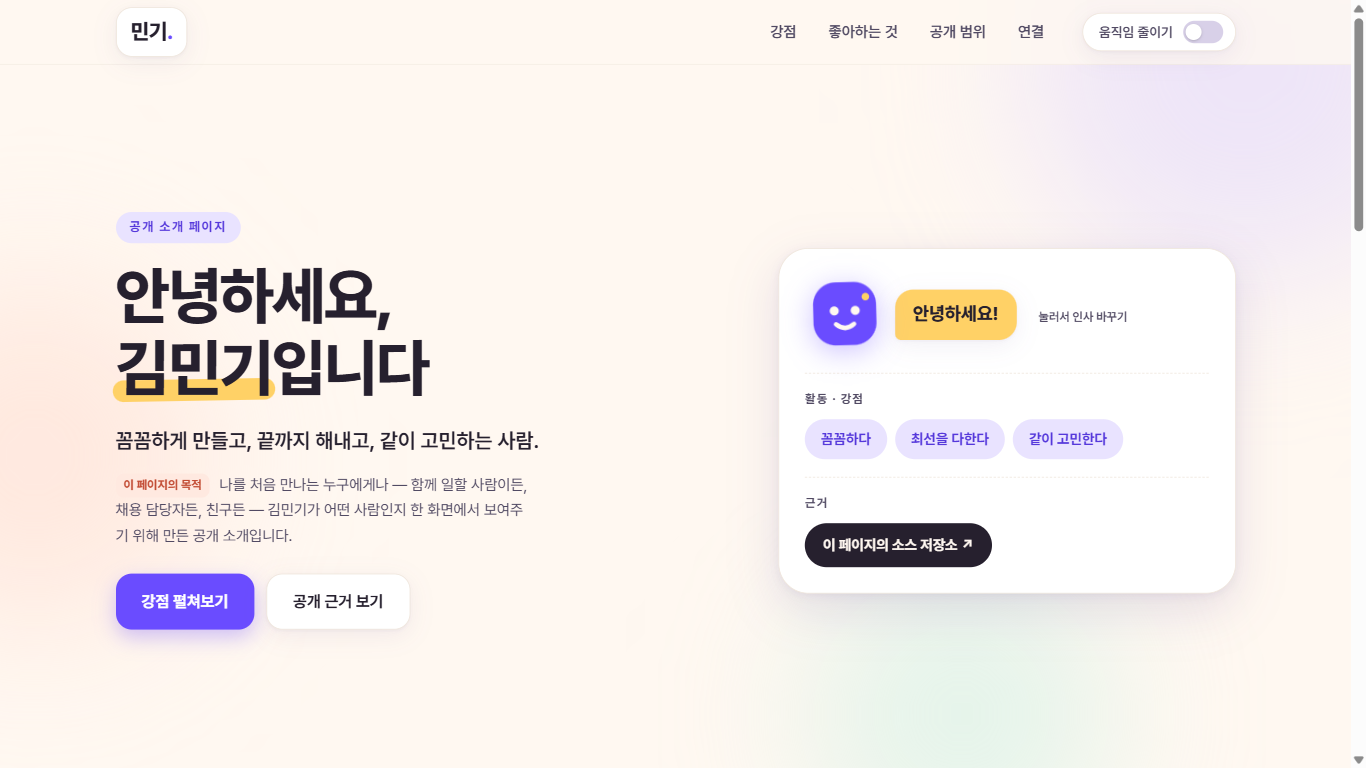
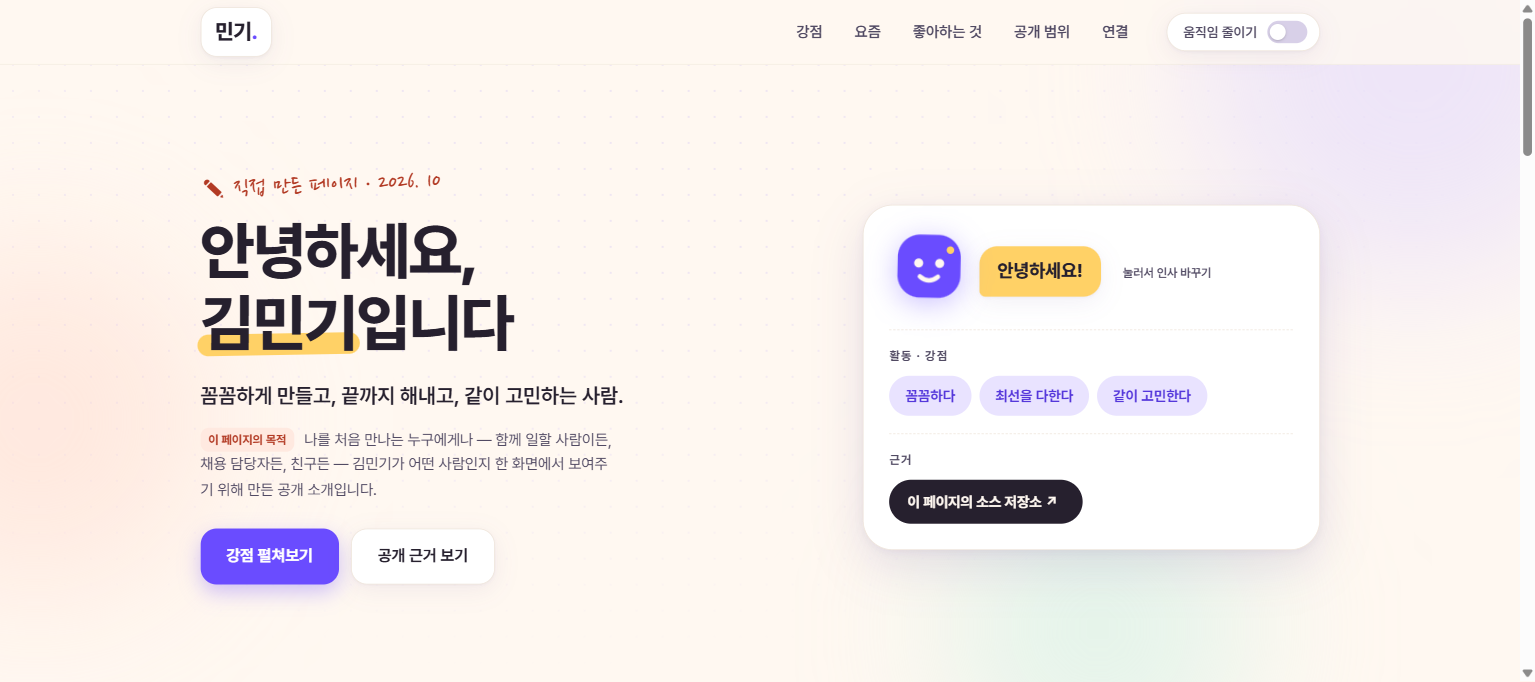
손글씨 감성 디자인 보강: 손글씨 도장, 띠배너, 요즘의 나 섹션, 버디 파티클

diff --git a/index.html b/index.html
@@ -7,6 +7,7 @@
   <title>김민기 — 나를 소개하는 한 페이지</title>
   <link rel="icon" href="assets/favicon.svg" type="image/svg+xml">
   <link rel="stylesheet" href="https://cdn.jsdelivr.net/gh/orioncactus/pretendard@v1.3.9/dist/web/variable/pretendardvariable-dynamic-subset.min.css">
+  <link rel="stylesheet" href="https://fonts.googleapis.com/css2?family=Nanum+Pen+Script&display=swap">
   <link rel="stylesheet" href="styles.css">
 </head>
 <body>
@@ -23,6 +24,7 @@
       <a class="logo" href="#top" aria-label="페이지 맨 위로">민기<span aria-hidden="true">.</span></a>
       <nav class="site-nav" aria-label="페이지 목차">
         <a href="#strengths">강점</a>
+        <a href="#now">요즘</a>
         <a href="#likes">좋아하는 것</a>
         <a href="#scope">공개 범위</a>
         <a href="#links">연결</a>
@@ -37,7 +39,7 @@
   <main id="main" tabindex="-1">
     <section id="top" class="hero container" aria-labelledby="hero-title">
       <div class="hero-copy">
-        <p class="eyebrow">공개 소개 페이지</p>
+        <p class="hand-note">✎ 직접 만든 페이지 · 2026. 10</p>
         <h1 id="hero-title">안녕하세요,<br><span class="hl">김민기</span>입니다</h1>
         <p class="lead">꼼꼼하게 만들고, 끝까지 해내고, 같이 고민하는 사람.</p>
         <p class="purpose"><span class="purpose-tag">이 페이지의 목적</span> 나를 처음 만나는 누구에게나 — 함께 일할 사람이든, 채용 담당자든, 친구든 — 김민기가 어떤 사람인지 한 화면에서 보여주기 위해 만든 공개 소개입니다.</p>
@@ -77,6 +79,13 @@
         </div>
       </div>
     </section>
+
+    <div class="marquee" aria-hidden="true">
+      <div class="marquee-track">
+        <span>꼼꼼하게 만들기</span><span class="mq-star">✦</span><span>끝까지 해내기</span><span class="mq-star">✦</span><span>같이 고민하기</span><span class="mq-star">✦</span><span>만나서 반가워요</span><span class="mq-star">✦</span>
+        <span>꼼꼼하게 만들기</span><span class="mq-star">✦</span><span>끝까지 해내기</span><span class="mq-star">✦</span><span>같이 고민하기</span><span class="mq-star">✦</span><span>만나서 반가워요</span><span class="mq-star">✦</span>
+      </div>
+    </div>
 
     <section id="strengths" class="section container" aria-labelledby="strengths-title">
       <div class="section-head">
@@ -166,6 +175,45 @@
       </div>
     </section>
 
+    <section id="now" class="section container" aria-labelledby="now-title">
+      <div class="section-head">
+        <p class="eyebrow">지금 이 순간</p>
+        <h2 id="now-title">요즘의 나</h2>
+      </div>
+      <!-- TODO(학생): 실제 내 요즘 상태로 문장을 바꾸면 더 좋습니다 -->
+      <div class="now-grid">
+        <div class="now-card now-lavender">
+          <p class="now-label">집중 중</p>
+          <p>과제와 작은 웹 페이지 만들기 — 직접 눌러 보고 고치는 시간이 제일 재밌습니다.</p>
+        </div>
+        <div class="now-card now-mint">
+          <p class="now-label">배우는 중</p>
+          <p>GitHub에 코드를 올리고 Pages로 공개하는 흐름을 이번에 처음 끝까지 해봤습니다.</p>
+        </div>
+        <div class="now-card now-butter">
+          <p class="now-label">좋아하는 순간</p>
+          <p>콘솔에 빨간 오류가 하나도 없을 때. 그 순간이 제일 뿌듯합니다.</p>
+        </div>
+      </div>
+      <ol class="timeline" aria-label="걸어온 길">
+        <li>
+          <span class="tl-dot" aria-hidden="true"></span>
+          <p class="tl-when">처음</p>
+          <p class="tl-what">웹 페이지를 처음 만들어 보며 HTML·CSS·JS를 익혔습니다.</p>
+        </li>
+        <li>
+          <span class="tl-dot" aria-hidden="true"></span>
+          <p class="tl-when">그다음</p>
+          <p class="tl-what">Firebase로 로그인과 데이터 저장을 붙여 배포 주소까지 만들었습니다.</p>
+        </li>
+        <li>
+          <span class="tl-dot" aria-hidden="true"></span>
+          <p class="tl-when">지금</p>
+          <p class="tl-what">공개 범위를 직접 정해 만든 이 한 페이지를 공개했습니다.</p>
+        </li>
+      </ol>
+    </section>
+
     <section id="likes" class="section container" aria-labelledby="likes-title">
       <div class="section-head">
         <p class="eyebrow">취향</p>
@@ -239,6 +287,7 @@
   <footer class="site-footer">
     <div class="container footer-inner">
       <p>© <span id="year">2026</span> 김민기 — 내가 공개 범위를 정해 직접 만든 한 페이지입니다.</p>
+      <p class="hand-note footer-hand">읽어줘서 고마워요!</p>
       <a href="#top">맨 위로 ↑</a>
     </div>
   </footer>

diff --git a/styles.css b/styles.css
@@ -94,6 +94,17 @@ body {
 .blob-coral  { width: 340px; height: 340px; background: #FFD9CC; top: 38%; left: -140px; animation-delay: -5s; }
 .blob-mint   { width: 300px; height: 300px; background: #C9F0E4; bottom: -100px; right: 18%; animation-delay: -9s; }
 
+/* 노트 점선 배경 */
+.bg-blobs::after {
+  content: "";
+  position: absolute;
+  inset: 0;
+  background-image: radial-gradient(circle, rgba(106, 76, 255, .10) 1.2px, transparent 1.3px);
+  background-size: 26px 26px;
+  -webkit-mask-image: radial-gradient(ellipse at 35% 25%, #000 20%, transparent 70%);
+  mask-image: radial-gradient(ellipse at 35% 25%, #000 20%, transparent 70%);
+}
+
 @keyframes float {
   0%, 100% { transform: translate(0, 0) scale(1); }
   50% { transform: translate(24px, -30px) scale(1.06); }
@@ -204,11 +215,25 @@ body {
   font-weight: 700;
   letter-spacing: .12em;
   color: var(--violet-deep);
-  background: var(--lavender);
-  border-radius: 999px;
+  background: rgba(233, 227, 255, .85);
+  border-radius: 4px 14px 4px 14px;
   padding: 5px 14px;
   margin-bottom: 18px;
+  transform: rotate(-1.5deg);
+  box-shadow: 0 2px 6px rgba(106, 76, 255, .10);
 }
+
+/* 손글씨 포인트 */
+.hand-note {
+  font-family: 'Nanum Pen Script', 'Malgun Gothic', cursive;
+  font-size: 1.6rem;
+  line-height: 1.2;
+  color: var(--coral-deep);
+  display: inline-block;
+  transform: rotate(-2deg);
+  margin-bottom: 14px;
+}
+.footer-hand { margin-bottom: 0; }
 
 h1 {
   font-size: clamp(2.3rem, 5.2vw, 3.9rem);
@@ -390,6 +415,111 @@ h1 {
   transition: transform .15s ease, background .15s ease;
 }
 .evidence-chip:hover { background: #3A3347; transform: translateY(-2px); }
+
+/* ----- 띠배너 ----- */
+.marquee {
+  overflow: hidden;
+  background: var(--violet);
+  padding: 13px 0;
+  transform: rotate(-.6deg) scale(1.01);
+  margin: 10px 0 -6px;
+}
+.marquee-track {
+  display: flex;
+  align-items: center;
+  gap: 30px;
+  width: max-content;
+  color: #fff;
+  font-weight: 800;
+  font-size: 1.05rem;
+  white-space: nowrap;
+  animation: marquee 24s linear infinite;
+}
+.mq-star { color: var(--butter); font-size: .85rem; }
+@keyframes marquee {
+  to { transform: translateX(-50%); }
+}
+
+/* ----- 요즘의 나 ----- */
+.now-grid {
+  display: grid;
+  grid-template-columns: repeat(3, 1fr);
+  gap: 16px;
+  margin-bottom: 34px;
+}
+.now-card {
+  border-radius: var(--radius);
+  padding: 24px;
+  border: 1px solid rgba(38, 32, 46, .06);
+  box-shadow: var(--shadow);
+  font-size: .93rem;
+}
+.now-card:nth-child(1) { transform: rotate(-.7deg); }
+.now-card:nth-child(2) { transform: rotate(.5deg); }
+.now-card:nth-child(3) { transform: rotate(-.4deg); }
+.now-card:hover { transform: translateY(-3px) rotate(0); transition: transform .16s ease; }
+.now-lavender { background: #F2EEFF; }
+.now-mint { background: #E9F8F2; }
+.now-butter { background: #FFF3D9; }
+.now-label {
+  font-weight: 800;
+  font-size: .78rem;
+  letter-spacing: .1em;
+  margin-bottom: 8px;
+}
+.now-lavender .now-label { color: var(--violet-deep); }
+.now-mint .now-label { color: var(--mint-deep); }
+.now-butter .now-label { color: #8A5A00; }
+
+/* ----- 걸어온 길 타임라인 ----- */
+.timeline {
+  list-style: none;
+  position: relative;
+  padding-left: 30px;
+  display: flex;
+  flex-direction: column;
+  gap: 18px;
+}
+.timeline::before {
+  content: "";
+  position: absolute;
+  left: 7px;
+  top: 10px;
+  bottom: 10px;
+  width: 2px;
+  background: repeating-linear-gradient(to bottom, #B9ACFF 0 7px, transparent 7px 14px);
+}
+.timeline li { position: relative; }
+.tl-dot {
+  position: absolute;
+  left: -30px;
+  top: 4px;
+  width: 16px;
+  height: 16px;
+  border-radius: 50%;
+  background: var(--butter);
+  border: 3px solid var(--violet);
+}
+.tl-when {
+  font-weight: 800;
+  color: var(--violet-deep);
+  font-size: .85rem;
+  margin-bottom: 2px;
+}
+.tl-what { font-size: .95rem; color: var(--ink); }
+
+/* ----- 버디 파티클 ----- */
+.buddy { position: relative; }
+.particle {
+  position: absolute;
+  pointer-events: none;
+  font-size: 1.15rem;
+  animation: floatUp .9s ease-out forwards;
+}
+@keyframes floatUp {
+  from { opacity: 1; transform: translateY(0) scale(.7) rotate(0); }
+  to { opacity: 0; transform: translateY(-48px) scale(1.25) rotate(18deg); }
+}
 
 /* ----- 섹션 공통 ----- */
 .section { padding: 72px 0 8px; }
@@ -675,6 +805,7 @@ html.reduce-motion .reveal { opacity: 1; transform: none; }
   .hero-panel { transform: none; }
   .sar { grid-template-columns: 1fr; }
   .link-grid { grid-template-columns: 1fr; }
+  .now-grid { grid-template-columns: 1fr; }
 }
 
 @media (max-width: 640px) {

diff --git a/script.js b/script.js
@@ -50,12 +50,25 @@ const buddy = document.getElementById('buddy');
 const buddyText = document.getElementById('buddyText');
 let greetIndex = 0;
 
+const confetti = ['✨', '💜', '👏', '🙌', '⭐'];
 buddy.addEventListener('click', () => {
   greetIndex = (greetIndex + 1) % greetings.length;
   buddyText.textContent = greetings[greetIndex];
   buddyText.classList.remove('pop');
   void buddyText.offsetWidth; // 애니메이션 다시 재생
   buddyText.classList.add('pop');
+  if (!root.classList.contains('reduce-motion')) {
+    for (let i = 0; i < 5; i++) {
+      const p = document.createElement('span');
+      p.className = 'particle';
+      p.setAttribute('aria-hidden', 'true');
+      p.textContent = confetti[Math.floor(Math.random() * confetti.length)];
+      p.style.left = `${8 + Math.random() * 70}px`;
+      p.style.top = `${Math.random() * 24}px`;
+      buddy.appendChild(p);
+      p.addEventListener('animationend', () => p.remove());
+    }
+  }
 });
 
 // ----- 스크롤 등장 -----
